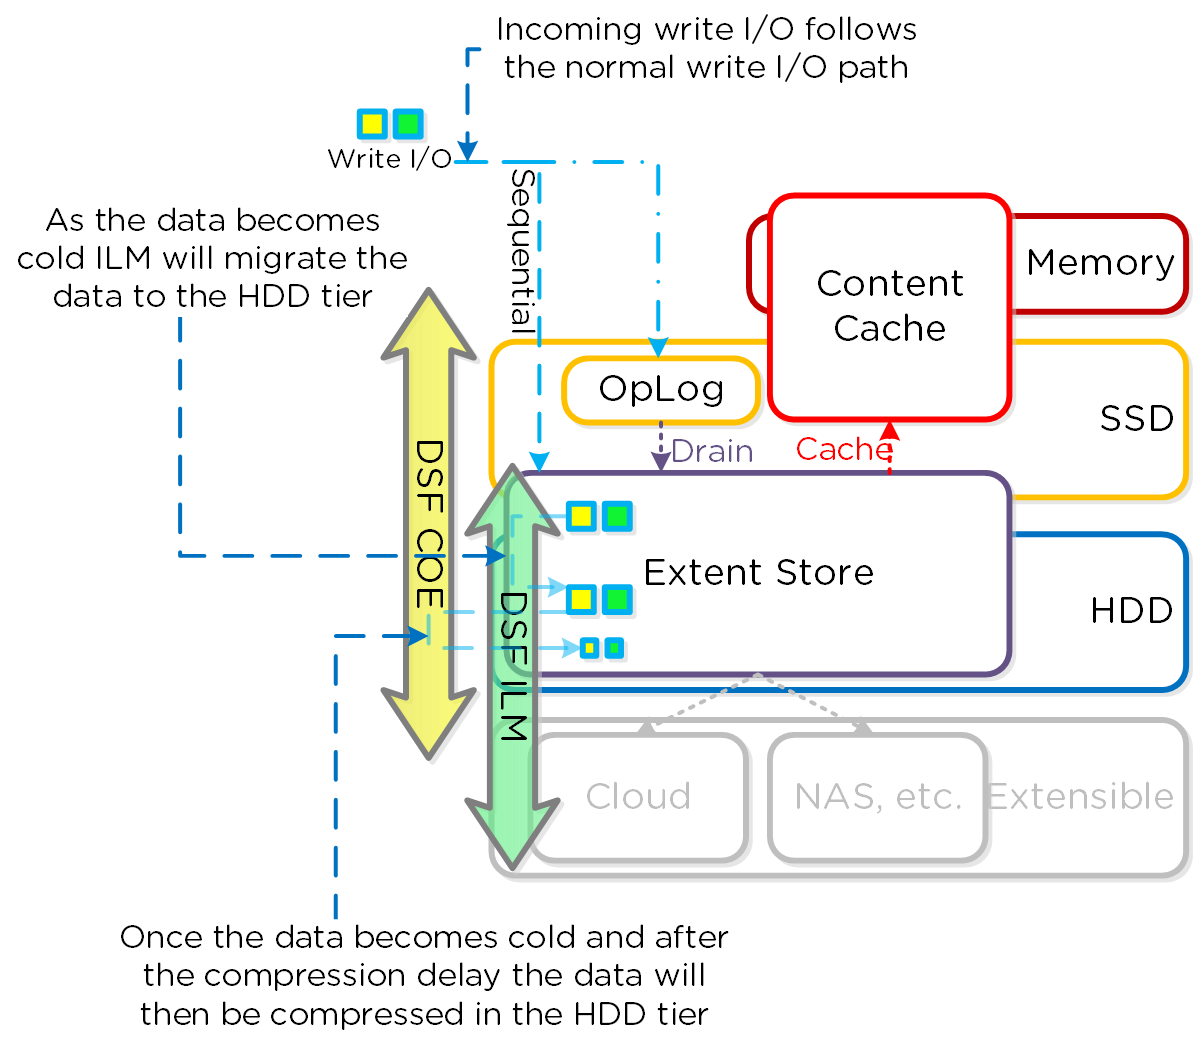
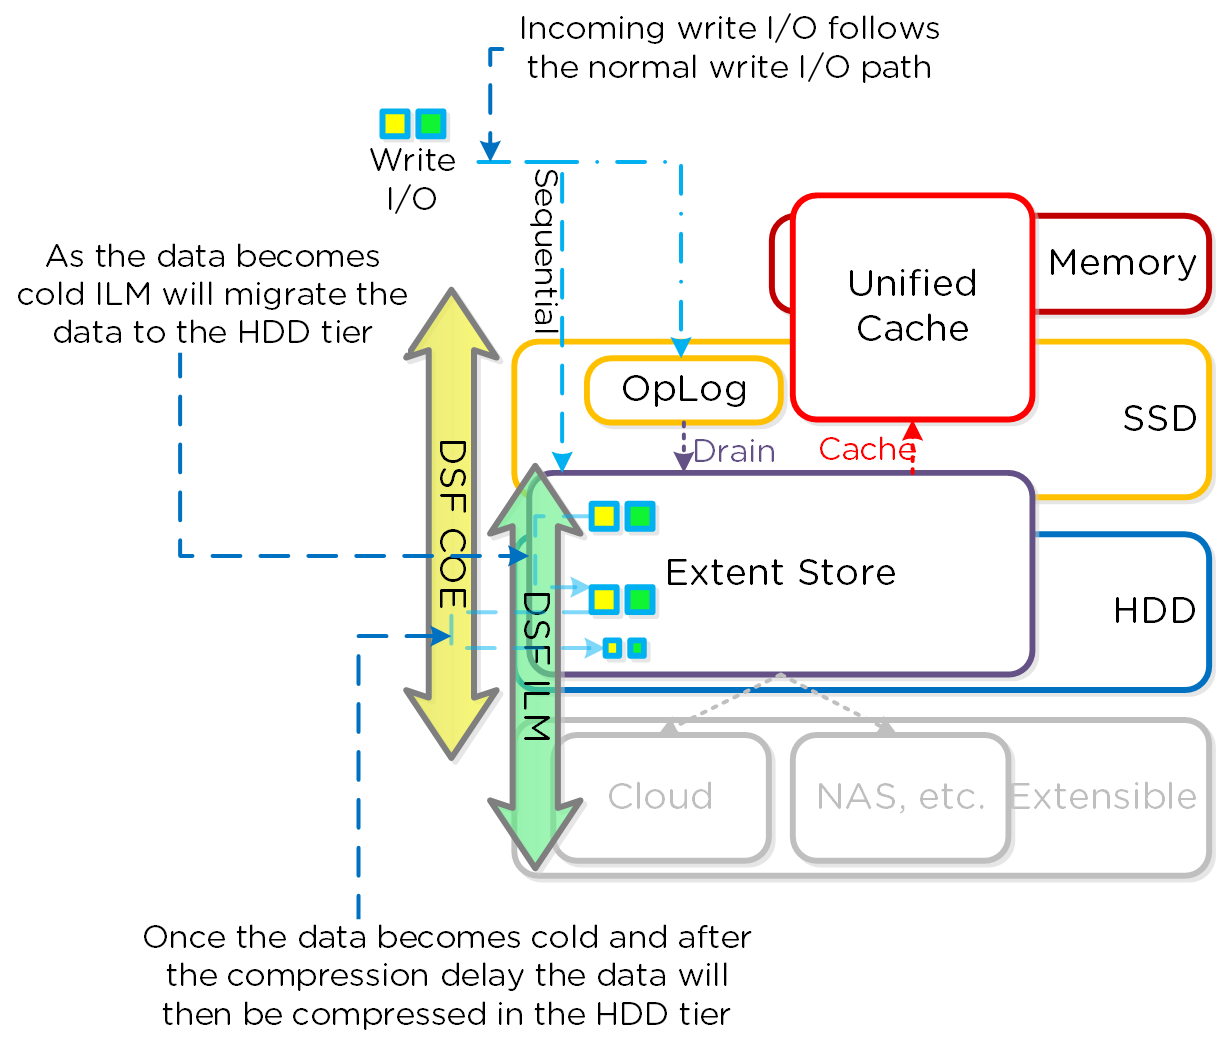
Updated from content cache to unified cache

diff --git a/index.html b/index.html
@@ -2721,7 +2721,7 @@ storage, compute and virtualization platform.
 	<li>Nutanix Home (CVM core)</li>
 	<li>Cassandra (metadata storage)</li>
 	<li>OpLog (persistent write buffer)</li>
-	<li>Content Cache (SSD cache)</li>
+	<li>Unified Cache (SSD cache portion)</li>
 	<li>Extent Store (persistent storage)</li>
 </ul>
 
@@ -2733,7 +2733,7 @@ storage, compute and virtualization platform.
 
 <p>NOTE: The sizing for OpLog is done dynamically as of release 4.0.1 which will allow the extent store portion to grow dynamically.&nbsp; The values used are assuming a completely utilized OpLog.&nbsp; Graphics and proportions aren’t drawn to scale.&nbsp; When evaluating the Remaining GiB capacities, do so from the top down.&nbsp; For example, the Remaining GiB to be used for the OpLog calculation would be after Nutanix Home and Cassandra have been subtracted from the formatted SSD capacity.</p>
 
-<p>Most models ship with 1 or 2 SSDs, however the same construct applies for models shipping with more SSD devices. For example, if we apply this to an example 3060 or 6060 node which has 2 x 400GB SSDs, this would give us 100GiB of OpLog, 40GiB of Content Cache, and ~440GiB of Extent Store SSD capacity per node.</p>
+<p>Most models ship with 1 or 2 SSDs, however the same construct applies for models shipping with more SSD devices. For example, if we apply this to an example 3060 or 6060 node which has 2 x 400GB SSDs, this would give us 100GiB of OpLog, 40GiB of Unified Cache, and ~440GiB of Extent Store SSD capacity per node.</p>
 
 <h5>HDD Devices</h5>
 
@@ -2841,7 +2841,7 @@ storage, compute and virtualization platform.
 
 <ul>
 	<li>Key Role: Persistent write buffer</li>
-	<li>Description: The OpLog is similar to a filesystem journal and is built to handle bursts of random writes, coalesce them, and then sequentially drain the data to the extent store.&nbsp; Upon a write, the OpLog is synchronously replicated to another n number of CVM’s OpLog before the write is acknowledged for data availability purposes.&nbsp; All CVM OpLogs partake in the replication and are dynamically chosen based upon load.&nbsp; The OpLog is stored on the SSD tier on the CVM to provide extremely fast write I/O performance, especially for random I/O workloads.&nbsp; For sequential workloads, the OpLog is bypassed and the writes go directly to the extent store.&nbsp; If data is currently sitting in the OpLog and has not been drained, all read requests will be directly fulfilled from the OpLog until they have been drained, where they would then be served by the extent store/content cache.&nbsp; For containers where fingerprinting (aka Dedupe) has been enabled, all write I/Os will be fingerprinted using a hashing scheme allowing them to be deduplicated based upon fingerprint in the content cache.</li>
+	<li>Description: The OpLog is similar to a filesystem journal and is built to handle bursts of random writes, coalesce them, and then sequentially drain the data to the extent store.&nbsp; Upon a write, the OpLog is synchronously replicated to another n number of CVM’s OpLog before the write is acknowledged for data availability purposes.&nbsp; All CVM OpLogs partake in the replication and are dynamically chosen based upon load.&nbsp; The OpLog is stored on the SSD tier on the CVM to provide extremely fast write I/O performance, especially for random I/O workloads.&nbsp; For sequential workloads, the OpLog is bypassed and the writes go directly to the extent store.&nbsp; If data is currently sitting in the OpLog and has not been drained, all read requests will be directly fulfilled from the OpLog until they have been drained, where they would then be served by the extent store/unified cache.&nbsp; For containers where fingerprinting (aka Dedupe) has been enabled, all write I/Os will be fingerprinted using a hashing scheme allowing them to be deduplicated based upon fingerprint in the unified cache.</li>
 </ul>
 
 <h5>Extent Store</h5>
@@ -2851,17 +2851,17 @@ storage, compute and virtualization platform.
 	<li>Description: The Extent Store is the persistent bulk storage of DSF and spans SSD and HDD and is extensible to facilitate additional devices/tiers.&nbsp; Data entering the extent store is either being A) drained from the OpLog or B) is sequential in nature and has bypassed the OpLog directly.&nbsp; Nutanix ILM will determine tier placement dynamically based upon I/O patterns and will move data between tiers.</li>
 </ul>
 
-<h5>Content Cache</h5>
+<h5>Unified Cache</h5>
 
 <ul>
 	<li>Key Role: Dynamic read cache</li>
-	<li>Description: The Content Cache is a deduplicated read cache which spans both the CVM’s memory and SSD.&nbsp; Upon a read request of data not in the cache (or based upon a particular fingerprint), the data will be placed into the single-touch pool of the Content Cache which completely sits in memory, where it will use LRU until it is evicted from the cache.&nbsp; Any subsequent read request will “move” (no data is actually moved, just cache metadata) the data into the memory portion of the multi-touch pool, which consists of both memory and SSD.&nbsp; From here there are two LRU cycles, one for the in-memory piece upon which eviction will move the data to the SSD section of the multi-touch pool where a new LRU counter is assigned.&nbsp; Any read request for data in the multi-touch pool will cause the data to go to the peak of the multi-touch pool where it will be given a new LRU counter.</li>
+	<li>Description: The Unified Cache is a deduplicated read cache which spans both the CVM’s memory and SSD.&nbsp; Upon a read request of data not in the cache (or based upon a particular fingerprint), the data will be placed into the single-touch pool of the Unified Cache which completely sits in memory, where it will use LRU until it is evicted from the cache.&nbsp; Any subsequent read request will “move” (no data is actually moved, just cache metadata) the data into the memory portion of the multi-touch pool, which consists of both memory and SSD.&nbsp; From here there are two LRU cycles, one for the in-memory piece upon which eviction will move the data to the SSD section of the multi-touch pool where a new LRU counter is assigned.&nbsp; Any read request for data in the multi-touch pool will cause the data to go to the peak of the multi-touch pool where it will be given a new LRU counter.</li>
 </ul>
 
-<p>The following figure shows a high-level overview of the Content Cache:</p>
+<p>The following figure shows a high-level overview of the Unified Cache:</p>
 
-<figure id="id-RBtnUjHQT1"><img alt="DSF Content Cache" class="iimagesv2content_cachepng" src="imagesv2/content_cache.png">
-<figcaption><span class="label">Figure 11-6. </span>DSF Content Cache</figcaption>
+<figure id="id-RBtnUjHQT1"><img alt="DSF Unified Cache" class="iimagesv2content_cachepng" src="imagesv2/content_cache.png">
+<figcaption><span class="label">Figure 11-6. </span>DSF Unified Cache</figcaption>
 </figure>
 
 <div data-type="note" class="note" id="cache-granularity-and-logic-21igh5H0T3"><h6>Note</h6>
@@ -2874,7 +2874,7 @@ storage, compute and virtualization platform.
 
 <ul>
 	<li>Key Role: In-memory read cache</li>
-	<li>Description: The Extent Cache is an in-memory read cache that is completely in the CVM’s memory.&nbsp; This will store non-fingerprinted extents for containers where fingerprinting and deduplication are disabled.&nbsp; As of version 3.5, this is separate from the Content Cache, however these are merged in 4.5 with the unified cache.</li>
+	<li>Description: The Extent Cache is an in-memory read cache that is completely in the CVM’s memory.&nbsp; This will store non-fingerprinted extents for containers where fingerprinting and deduplication are disabled.&nbsp; As of version 3.5, this is separate from the Unified Cache, however these are merged in 4.5 with the unified cache.</li>
 </ul>
 </section>
 
@@ -3233,7 +3233,7 @@ storage, compute and virtualization platform.
 
 <div class="video-container"><iframe allowfullscreen frameborder="0" src="https://www.youtube.com/embed//C-rp13cDpNw"></iframe></div>
 
-<p>The Elastic Dedupe Engine is a software-based feature of DSF which allows for data deduplication in the capacity (HDD) and performance (SSD/Memory) tiers.&nbsp; Streams of data are fingerprinted during ingest using a SHA-1 hash at a 16K granularity.&nbsp; This fingerprint is only done on data ingest and is then stored persistently as part of the written block’s metadata.&nbsp; NOTE: Initially a 4K granularity was used for fingerprinting, however after testing 16K offered the best blend of deduplication with reduced metadata overhead.&nbsp; Deduplicated data is pulled into the content cache at a 4K granularity.</p>
+<p>The Elastic Dedupe Engine is a software-based feature of DSF which allows for data deduplication in the capacity (HDD) and performance (SSD/Memory) tiers.&nbsp; Streams of data are fingerprinted during ingest using a SHA-1 hash at a 16K granularity.&nbsp; This fingerprint is only done on data ingest and is then stored persistently as part of the written block’s metadata.&nbsp; NOTE: Initially a 4K granularity was used for fingerprinting, however after testing 16K offered the best blend of deduplication with reduced metadata overhead.&nbsp; Deduplicated data is pulled into the unified cache at a 4K granularity.</p>
 
 <p>Contrary to traditional approaches which utilize background scans requiring the data to be re-read, Nutanix performs the fingerprint inline on ingest.&nbsp; For duplicate data that can be deduplicated in the capacity tier, the data does not need to be scanned or re-read, essentially duplicate copies can be removed.</p>
 
@@ -3244,7 +3244,7 @@ storage, compute and virtualization platform.
 <div data-type="note" class="note" id="pro-tip-N8iNFMIYT8"><h6>Note</h6>
 <h5>Pro tip</h5>
 
-<p>Use performance tier deduplication on your base images (you can manually fingerprint them using vdisk_manipulator) to take advantage of the content cache.</p>
+<p>Use performance tier deduplication on your base images (you can manually fingerprint them using vdisk_manipulator) to take advantage of the unified cache.</p>
 
 <p>Use capacity tier deduplication for P2V / V2V,&nbsp;when using Hyper-V since ODX does a full data copy, or when doing cross-container clones (not usually recommended as a single container is preferred).</p>
 
@@ -3257,7 +3257,7 @@ storage, compute and virtualization platform.
 <figcaption><span class="label">Figure 11-16. </span>Elastic Dedupe Engine - Scale</figcaption>
 </figure>
 
-<p>Fingerprinting is done during data ingest of data with an I/O size of 64K or greater.&nbsp; Intel acceleration is leveraged for the SHA-1 computation which accounts for very minimal CPU overhead.&nbsp; In cases where fingerprinting is not done during ingest (e.g., smaller I/O sizes), fingerprinting can be done as a background process. The Elastic Deduplication Engine spans both the capacity disk tier (HDD), but also the performance tier (SSD/Memory).&nbsp; As duplicate data is determined, based upon multiple copies of the same fingerprints, a background process will remove the duplicate data using the DSF Map Reduce framework (Curator). For data that is being read, the data will be pulled into the DSF Content Cache which is a multi-tier/pool cache.&nbsp; Any subsequent requests for data having the same fingerprint will be pulled directly from the cache.&nbsp; To learn more about the Content Cache and pool structure, please refer to the ‘Content Cache’ sub-section in the I/O path overview.</p>
+<p>Fingerprinting is done during data ingest of data with an I/O size of 64K or greater.&nbsp; Intel acceleration is leveraged for the SHA-1 computation which accounts for very minimal CPU overhead.&nbsp; In cases where fingerprinting is not done during ingest (e.g., smaller I/O sizes), fingerprinting can be done as a background process. The Elastic Deduplication Engine spans both the capacity disk tier (HDD), but also the performance tier (SSD/Memory).&nbsp; As duplicate data is determined, based upon multiple copies of the same fingerprints, a background process will remove the duplicate data using the DSF Map Reduce framework (Curator). For data that is being read, the data will be pulled into the DSF Unified Cache which is a multi-tier/pool cache.&nbsp; Any subsequent requests for data having the same fingerprint will be pulled directly from the cache.&nbsp; To learn more about the Unified Cache and pool structure, please refer to the 'Unified Cache' sub-section in the I/O path overview.</p>
 
 <div data-type="note" class="note" id="fingerprinted-vdisk-offsets-l9ijcWIATe"><h6>Note</h6>
 <h5>Fingerprinted vDisk Offsets</h5>
@@ -4925,12 +4925,12 @@ echo "source ~/ncc/ncc_completion.bash" &gt;&gt; ~/.bashrc</p>
 <figcaption><span class="label">Figure 14-2. </span>2009 Page - Stargate Overview - Queues</figcaption>
 </figure>
 
-<p>The second portion is the content cache details which shows information on cache sizes and hit rates.</p>
+<p>The second portion is the unified cache details which shows information on cache sizes and hit rates.</p>
 
-<p>The figure shows the content cache portion of the overview section:</p>
+<p>The figure shows the unified cache portion of the overview section:</p>
 
-<figure id="id-rQtAcNCJHDF9"><img alt="2009 Page - Stargate Overview - Content Cache" class="iimagesv22009pagesstargate_contentcache2png" src="imagesv2/2009Pages/stargate_contentCache2.png">
-<figcaption><span class="label">Figure 14-3. </span>2009 Page - Stargate Overview - Content Cache</figcaption>
+<figure id="id-rQtAcNCJHDF9"><img alt="2009 Page - Stargate Overview - Unified Cache" class="iimagesv22009pagesstargate_contentcache2png" src="imagesv2/2009Pages/stargate_contentCache2.png">
+<figcaption><span class="label">Figure 14-3. </span>2009 Page - Stargate Overview - Unified Cache</figcaption>
 </figure>
 
 <div data-type="note" class="note" id="pro-tip-vAiPIXC9HxF5"><h6>Note</h6>
